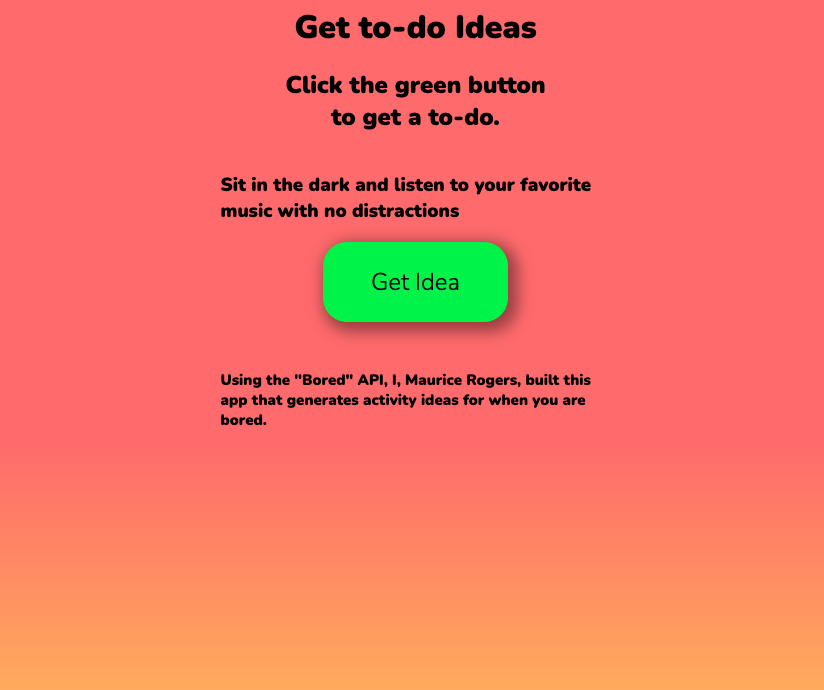
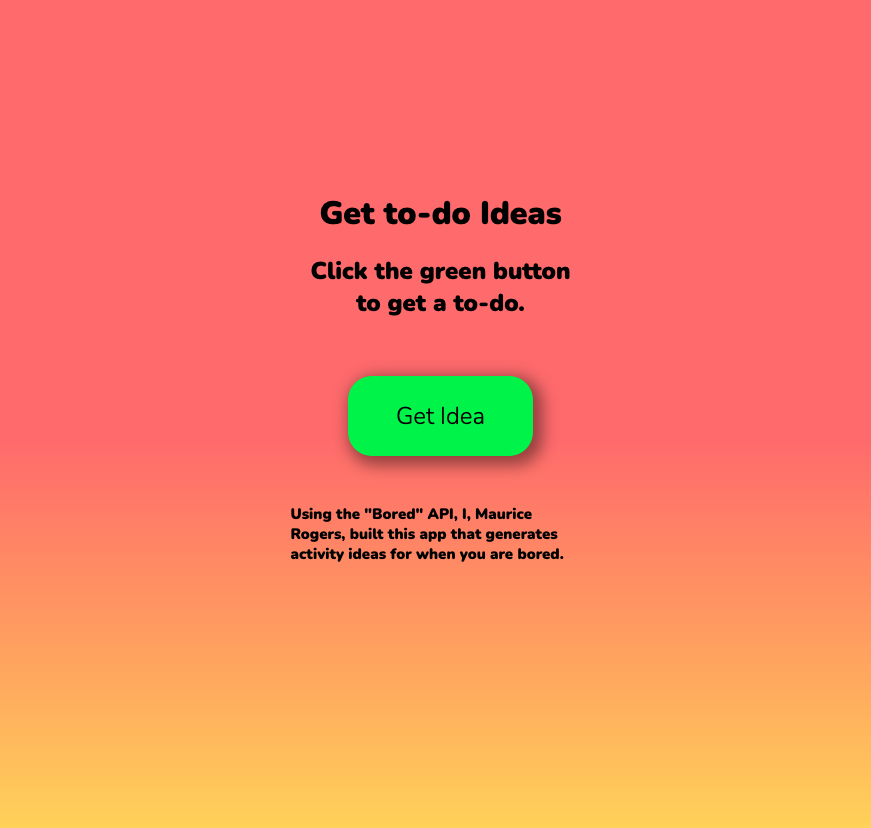
updated thumbnails and margin

diff --git a/activity-ideas/styles.css b/activity-ideas/styles.css
@@ -11,7 +11,8 @@ body{
     display: flex;
     flex-direction: column;
     align-items: center;
-    width: 300px;
+    max-width: 300px;
+    margin-top: 2rem;
 }
 h1{
     text-align: center;

diff --git a/blackjack-game/styles.css b/blackjack-game/styles.css
@@ -37,6 +37,7 @@ main{
     display: flex;
     flex-direction: column;
     align-items: center;
+    margin-top: 2rem;
 }
 /* footer below */
 footer{
